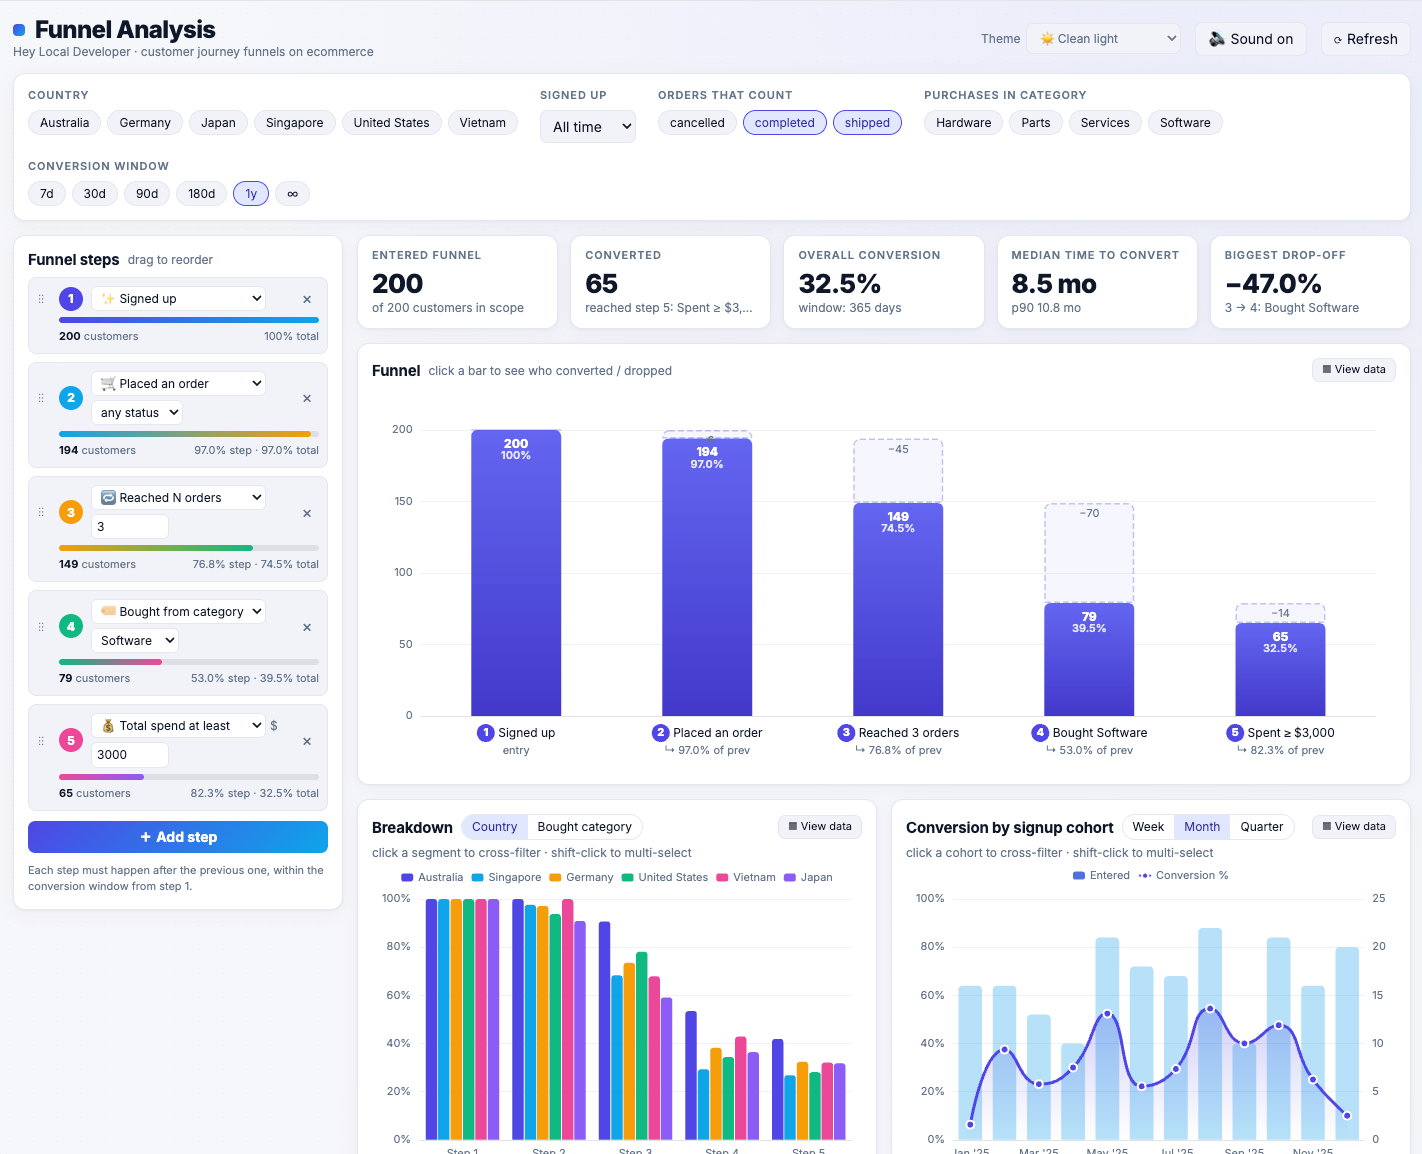
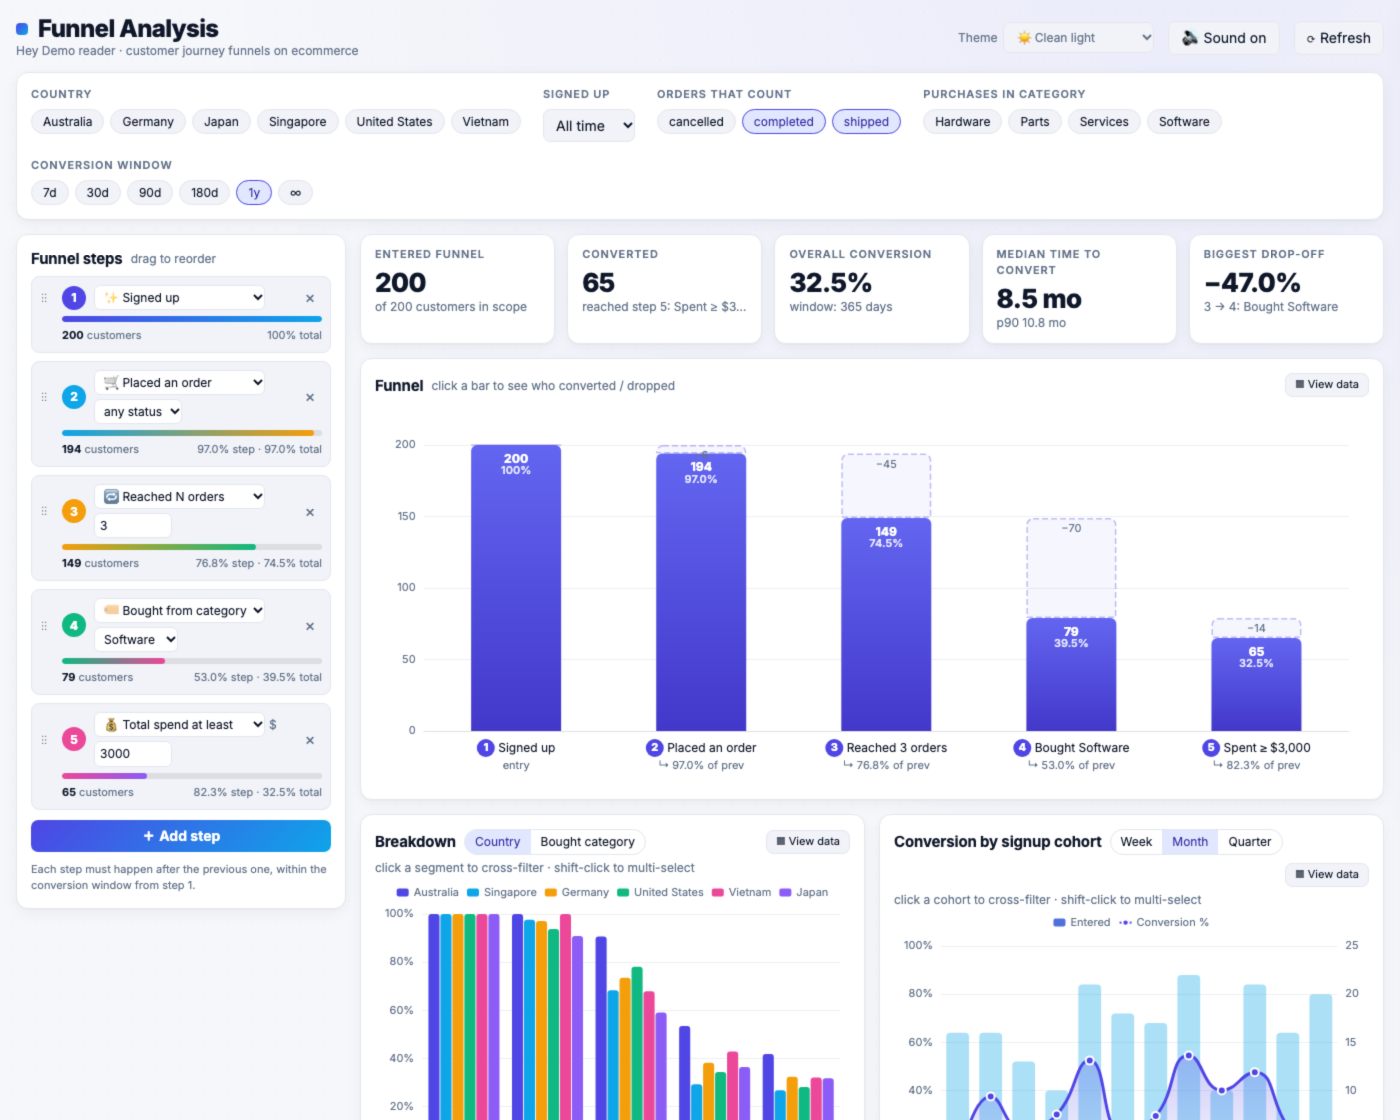
docs: refresh the readme demo gallery for the reorganized demo
The demo site is moving its apps into new folders, and the current
gallery links already point at folders that no longer exist. Point the
hero and gallery at the new paths and swap the gallery to cohort
heatmap, BigQuery cost & usage, MRR reconciliation and metric sheet.

Recapture all five screenshots from demo.anfra.ai at the same frame
size (1400x1120 lossless WebP, downscaled from 2x) and drop the
images that nothing references any more.

diff --git a/README.md b/README.md
@@ -12,10 +12,10 @@
 </p>
 
 <p align="center">
-  <a href="https://demo.anfra.ai/apps/fancy-demos/funnel-analysis"><img src="docs/images/gallery/funnel-analysis.webp" alt="Funnel analysis app built with anfra" width="720"></a>
+  <a href="https://demo.anfra.ai/apps/business-apps/funnel-analysis"><img src="docs/images/gallery/funnel-analysis.webp" alt="Funnel analysis app built with anfra" width="720"></a>
 </p>
 <p align="center">
-  <em>A funnel analysis app built by a coding agent with anfra. <a href="https://demo.anfra.ai/apps/fancy-demos/funnel-analysis">Try it live →</a></em>
+  <em>A funnel analysis app built by a coding agent with anfra. <a href="https://demo.anfra.ai/apps/business-apps/funnel-analysis">Try it live →</a></em>
 </p>
 
 ## What is anfra?
@@ -45,8 +45,8 @@ These are custom BI apps (HTML/JS/CSS) generated by coding agents on top of the 
 
 | | |
 |---|---|
-| [![Funnel analysis](docs/images/gallery/funnel-analysis.webp)](https://demo.anfra.ai/apps/fancy-demos/funnel-analysis)<br>**[Funnel analysis](https://demo.anfra.ai/apps/fancy-demos/funnel-analysis)**<br>Add, remove, and reorder funnel steps. Click a bar to see who converted or dropped off. | [![Cohort analysis](docs/images/gallery/cohort-analysis.webp)](https://demo.anfra.ai/apps/fancy-demos/cohort-heatmap)<br>**[Cohort analysis](https://demo.anfra.ai/apps/fancy-demos/cohort-heatmap)**<br>Retention heatmap by signup month. Click a cell to filter, or right-click to see the underlying rows. |
-| [![Cashflow statement](docs/images/gallery/cashflow-reports.webp)](https://demo.anfra.ai/apps/reports/cashflow)<br>**[Cashflow statement](https://demo.anfra.ai/apps/reports/cashflow)**<br>Operating, investing, and financing activities with subtotals, monthly or quarterly. | [![Canvas builder](docs/images/gallery/flex-canvas.webp)](https://demo.anfra.ai/apps/builders/flex)<br>**[Canvas builder](https://demo.anfra.ai/apps/builders/flex)**<br>Add and arrange charts on a canvas. Click a mark to drill into a linked chart. |
+| [![Cohort heatmap](docs/images/gallery/cohort-heatmap.webp)](https://demo.anfra.ai/apps/dashboards/cohort-heatmap)<br>**[Cohort heatmap](https://demo.anfra.ai/apps/dashboards/cohort-heatmap)**<br>Revenue, orders, or units by signup cohort and months since signup. Click a cell to filter, or right-click to see the underlying rows. | [![BigQuery cost & usage](docs/images/gallery/bigquery-cost.webp)](https://demo.anfra.ai/apps/dashboards/bigquery-cost)<br>**[BigQuery cost & usage](https://demo.anfra.ai/apps/dashboards/bigquery-cost)**<br>Daily cost by team, tool, project, and query, with a month-end forecast against budget. Click a bar to filter. |
+| [![MRR reconciliation](docs/images/gallery/mrr-reconciliation.webp)](https://demo.anfra.ai/apps/business-apps/mrr-reconciliation)<br>**[MRR reconciliation](https://demo.anfra.ai/apps/business-apps/mrr-reconciliation)**<br>Merge correction events so upgraded and downgraded MRR aren't overstated. Preview the effect before submitting. | [![Metric sheet](docs/images/gallery/metric-sheet.webp)](https://demo.anfra.ai/apps/build-your-own-bi/metric-sheet)<br>**[Metric sheet](https://demo.anfra.ai/apps/build-your-own-bi/metric-sheet)**<br>A statement-style table with one column per period. Add metrics, breakdowns, sections, and % change rows. |
 
 [View more demos →](https://demo.anfra.ai/)
 
